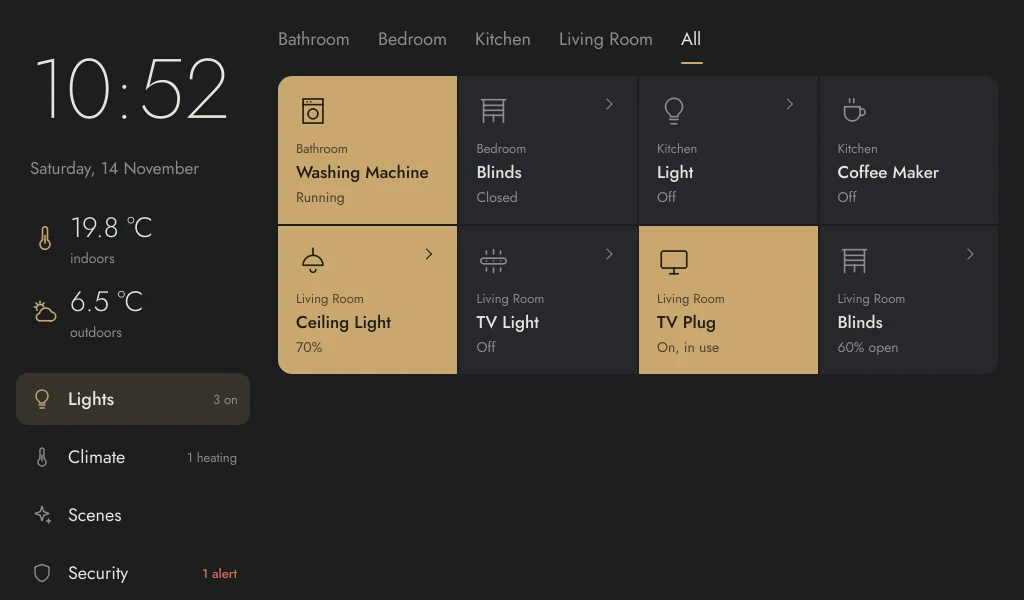
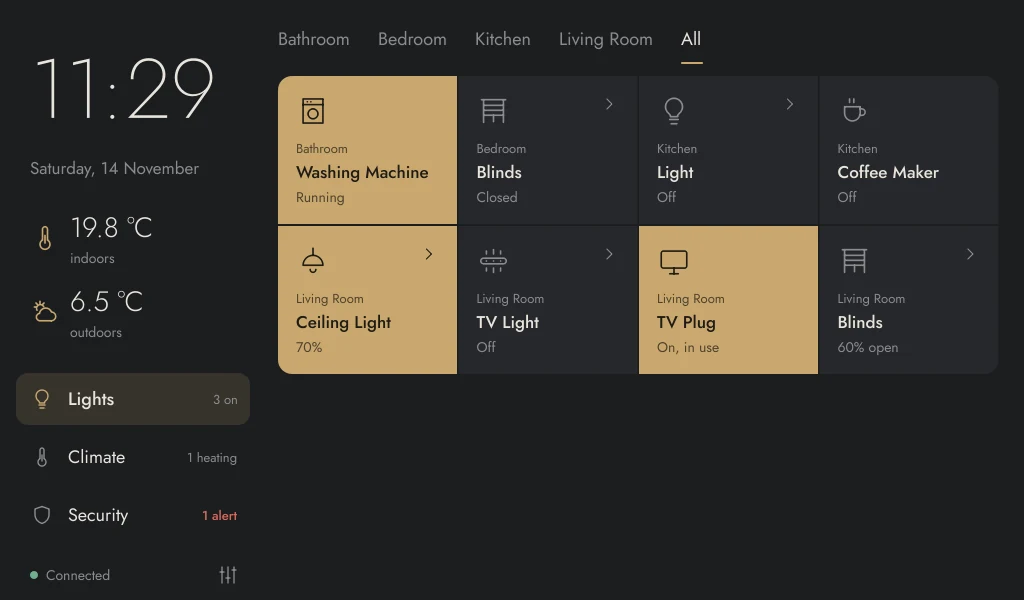
Project page: drop the scenes tab, add Portuguese
Claude-Session: https://claude.ai/code/session_01WHPo8jtQJGMwjgBVHobh9P

diff --git a/site/index.html b/site/index.html
@@ -4,9 +4,9 @@
 <meta charset="utf-8">
 <meta name="viewport" content="width=device-width, initial-scale=1">
 <title>Homebridge Panel – a wall touch panel for your Homebridge home</title>
-<meta name="description" content="A calm, fast touch panel for the Raspberry Pi. Control lights, heating, blinds, scenes and sensors from Homebridge – locally, in five languages, on any screen size.">
+<meta name="description" content="A calm, fast touch panel for the Raspberry Pi. Control lights, heating, blinds and sensors from Homebridge – locally, in six languages, on any screen size.">
 <meta property="og:title" content="Homebridge Panel">
-<meta property="og:description" content="A wall touch panel for the Raspberry Pi that controls your Homebridge accessories – lights, heating, blinds, scenes and security.">
+<meta property="og:description" content="A wall touch panel for the Raspberry Pi that controls your Homebridge accessories – lights, heating, blinds, sensors and security.">
 <meta property="og:type" content="website">
 <meta property="og:image" content="https://marcjohnce.github.io/homebridge-panel/assets/og-image.png">
 <meta name="twitter:card" content="summary_large_image">
@@ -264,7 +264,7 @@ footer a{color:var(--ink)}
   <div class="wrap">
     <div class="hero-copy">
       <h1 data-i18n="hero.title">Your Homebridge, on the wall.</h1>
-      <p class="lede" data-i18n="hero.lede">A calm touch panel for the Raspberry Pi. Lights, heating, blinds, scenes and alarms – one tap away, right where you need them.</p>
+      <p class="lede" data-i18n="hero.lede">A calm touch panel for the Raspberry Pi. Lights, heating, blinds, sensors and alarms – one tap away, right where you need them.</p>
       <div class="cta-row">
         <a class="btn btn-gold" href="#install" data-i18n="hero.cta">Install on your Pi</a>
         <a class="btn btn-ghost" href="https://github.com/marcjohnce/homebridge-panel" data-i18n="hero.cta2">View the source</a>
@@ -273,7 +273,7 @@ footer a{color:var(--ink)}
         <li data-i18n="hero.f1">Runs locally, no cloud</li>
         <li data-i18n="hero.f4">Open source</li>
         <li data-i18n="hero.f2">Raspberry Pi 4 and 5</li>
-        <li data-i18n="hero.f3">Five languages</li>
+        <li data-i18n="hero.f3">Six languages</li>
       </ul>
     </div>
     <div class="hero-stage">
@@ -285,7 +285,6 @@ footer a{color:var(--ink)}
       <div class="tabs" role="tablist" aria-label="Panel menu">
         <button role="tab" aria-selected="true" data-tab="light"><svg viewBox="0 0 24 24" fill="none" stroke="currentColor" stroke-width="1.4" stroke-linecap="round"><path d="M9 18h6M10 21h4M12 3a6 6 0 00-3.5 10.9c.6.5 1 1.2 1 2.1h5c0-.9.4-1.6 1-2.1A6 6 0 0012 3z"/></svg><span data-i18n="tab.light">Lights</span></button>
         <button role="tab" aria-selected="false" data-tab="climate"><svg viewBox="0 0 24 24" fill="none" stroke="currentColor" stroke-width="1.4" stroke-linecap="round"><path d="M10 14.5V5a2 2 0 014 0v9.5a4 4 0 11-4 0z"/></svg><span data-i18n="tab.climate">Climate</span></button>
-        <button role="tab" aria-selected="false" data-tab="scenes"><svg viewBox="0 0 24 24" fill="none" stroke="currentColor" stroke-width="1.4" stroke-linejoin="round"><path d="M12 3l1.8 5.2L19 10l-5.2 1.8L12 17l-1.8-5.2L5 10l5.2-1.8z"/><path d="M18.5 16l.7 2 2 .7-2 .7-.7 2-.7-2-2-.7 2-.7z"/></svg><span data-i18n="tab.scenes">Scenes</span></button>
         <button role="tab" aria-selected="false" data-tab="security"><svg viewBox="0 0 24 24" fill="none" stroke="currentColor" stroke-width="1.4" stroke-linejoin="round"><path d="M12 3l7 3v5c0 4.5-3 8.3-7 10-4-1.7-7-5.5-7-10V6z"/></svg><span data-i18n="tab.security">Security</span></button>
       </div>
       <p class="tab-note" id="tabNote" aria-live="polite" data-i18n="note.light">Every light, plug and blind at a glance. Tap a tile to switch it, tap the arrow for brightness and colour.</p>
@@ -371,13 +370,14 @@ footer a{color:var(--ink)}
   <div class="wrap langs">
     <div>
       <h2 data-i18n="lang.title">Speaks your language.</h2>
-      <p class="lede" data-i18n="lang.lede">English, German, French, Italian and Spanish – switch in the settings and the whole panel follows, dates included.</p>
+      <p class="lede" data-i18n="lang.lede">English, German, French, Italian, Spanish and Portuguese – switch in the settings and the whole panel follows, dates included.</p>
       <ul class="lang-words" role="group" aria-label="Preview language">
         <li><button type="button" data-shot="dark-home-light" aria-pressed="true"><span class="w">Lights</span><span class="n">English</span></button></li>
         <li><button type="button" data-shot="dark-de-home-light" aria-pressed="false"><span class="w">Licht</span><span class="n">Deutsch</span></button></li>
         <li><button type="button" data-shot="dark-fr-home-light" aria-pressed="false"><span class="w">Lumières</span><span class="n">Français</span></button></li>
         <li><button type="button" data-shot="dark-it-home-light" aria-pressed="false"><span class="w">Luci</span><span class="n">Italiano</span></button></li>
         <li><button type="button" data-shot="dark-es-home-light" aria-pressed="false"><span class="w">Luces</span><span class="n">Español</span></button></li>
+        <li><button type="button" data-shot="dark-pt-home-light" aria-pressed="false"><span class="w">Luzes</span><span class="n">Português</span></button></li>
       </ul>
     </div>
     <div class="device edge"><div class="screen"><img id="langImg" src="assets/screens/dark-home-light.webp" width="1280" height="800" loading="lazy" alt="Home screen in the selected language"></div></div>
@@ -411,7 +411,7 @@ footer a{color:var(--ink)}
       <li><b data-i18n="f.1">0</b><span data-i18n="f.1s">cloud services or accounts needed</span></li>
       <li><b data-i18n="f.2">≤ 5 s</b><span data-i18n="f.2s">until changes from the Home app appear on the panel</span></li>
       <li><b>6</b><span data-i18n="f.3s">screen layouts, landscape, square and portrait</span></li>
-      <li><b>5</b><span data-i18n="f.4s">languages, switchable without a restart</span></li>
+      <li><b>6</b><span data-i18n="f.4s">languages, switchable without a restart</span></li>
     </ul>
   </div>
 </section>
@@ -487,13 +487,12 @@ cd ~/homebridge-panel
     "skip":"Zum Inhalt springen",
     "nav.controls":"Bedienung","nav.screens":"Displays","nav.how":"So funktioniert's","nav.install":"Installation","nav.faq":"FAQ",
     "hero.title":"Dein Homebridge. An der Wand.",
-    "hero.lede":"Ein ruhiges Touch-Panel für den Raspberry Pi. Licht, Heizung, Rollos, Szenen und Alarme – einen Fingertipp entfernt, genau dort, wo du sie brauchst.",
+    "hero.lede":"Ein ruhiges Touch-Panel für den Raspberry Pi. Licht, Heizung, Rollos, Sensoren und Alarme – einen Fingertipp entfernt, genau dort, wo du sie brauchst.",
     "hero.cta":"Auf dem Pi installieren","hero.cta2":"Quellcode ansehen",
-    "hero.f1":"Läuft lokal, ohne Cloud","hero.f2":"Raspberry Pi 4 und 5","hero.f3":"Fünf Sprachen","hero.f4":"Open Source",
-    "tab.light":"Licht","tab.climate":"Klima","tab.scenes":"Szenen","tab.security":"Sicherheit",
+    "hero.f1":"Läuft lokal, ohne Cloud","hero.f2":"Raspberry Pi 4 und 5","hero.f3":"Sechs Sprachen","hero.f4":"Open Source",
+    "tab.light":"Licht","tab.climate":"Klima","tab.security":"Sicherheit",
     "note.light":"Alle Lampen, Steckdosen und Rollos auf einen Blick. Kachel antippen zum Schalten, Pfeil für Helligkeit und Farbe.",
     "note.climate":"Heizkörper, Thermostate, Lüfter und Luftqualität. Was gerade heizt, siehst du sofort.",
-    "note.scenes":"„Alles aus“, „Komfort“, „Filmabend“ – Szenen pro Raum, mit einem Tipp ausgeführt.",
     "note.security":"Fenster, Türen, Wasser- und Glasbruchmelder. Offene Fenster und Alarme stehen immer oben.",
     "controls.title":"Für den Finger gemacht, nicht für die Maus.",
     "controls.lede":"Große Flächen, klare Zustände, keine verschachtelten Menüs. Jedes Gerät bekommt eine Bedienung, die sich anfühlt wie das Original.",
@@ -512,7 +511,7 @@ cd ~/homebridge-panel
     "sizes.7":"7″-HDMI-Displays","sizes.10":"10,1″-Panels – empfohlen","sizes.sq":"Quadratisch – empfohlen","sizes.p":"Hochformat",
     "sizes.note":"Im Pixelmaßstab dargestellt. 1280 × 720 (Touch Display 2) funktioniert ebenfalls.",
     "lang.title":"Spricht deine Sprache.",
-    "lang.lede":"Deutsch, Englisch, Französisch, Italienisch und Spanisch – in den Einstellungen umschalten, und das ganze Panel folgt, Datum inklusive.",
+    "lang.lede":"Deutsch, Englisch, Französisch, Italienisch, Spanisch und Portugiesisch – in den Einstellungen umschalten, und das ganze Panel folgt, Datum inklusive.",
     "how.title":"Spricht direkt mit Homebridge.",
     "how.lede":"Das Panel nutzt das HomeKit Accessory Protocol und verbindet sich über das Heimnetz mit deinem Homebridge. Kein Konto, keine Cloud, kein zusätzlicher Server.",
     "how.n1":"Deine Geräte","how.n1.p":"Lampen, Steckdosen, Thermostate, Rollos und Sensoren – jede Marke, für die es ein Homebridge-Plugin gibt.",
@@ -538,7 +537,6 @@ cd ~/homebridge-panel
   var EN={"copied":"Copied",
     "note.light":"Every light, plug and blind at a glance. Tap a tile to switch it, tap the arrow for brightness and colour.",
     "note.climate":"Radiators, thermostats, fans and air quality. You see at once what is heating.",
-    "note.scenes":"“All off”, “Comfort”, “Movie night” – scenes per room, run with one tap.",
     "note.security":"Windows, doors, leak and glass break sensors. Open windows and alarms always come first."};
   var nodes=document.querySelectorAll("[data-i18n]");
   nodes.forEach(function(n){EN[n.dataset.i18n]=EN[n.dataset.i18n]||n.innerHTML;});
@@ -563,7 +561,7 @@ cd ~/homebridge-panel
     next.decode?next.decode().then(go,go):(next.onload=go);
     function go(){img.style.opacity=0;setTimeout(function(){img.src=src;if(alt)img.alt=alt;img.style.opacity=1;},180);}
   }
-  var ALTS={light:"Home screen with the lights of all rooms",climate:"Climate view with heating, weather station, fan and air quality",scenes:"Scenes: All off, Comfort, Eco and Movie night",security:"Security view with an open bedroom window shown first"};
+  var ALTS={light:"Home screen with the lights of all rooms",climate:"Climate view with heating, weather station, fan and air quality",security:"Security view with an open bedroom window shown first"};
   var tabs=document.querySelectorAll("[role=tab]");
   tabs.forEach(function(b,i){
     b.addEventListener("click",function(){
@@ -578,7 +576,7 @@ cd ~/homebridge-panel
       var n=tabs[(i+d+tabs.length)%tabs.length];n.focus();n.click();
     });
   });
-  ["light","climate","scenes","security"].forEach(function(c){var i=new Image();i.src="assets/screens/dark-home-"+c+".webp";});
+  ["light","climate","security"].forEach(function(c){var i=new Image();i.src="assets/screens/dark-home-"+c+".webp";});
 
   /* language preview */
   var lb=document.querySelectorAll(".lang-words button");

diff --git a/tools/site_screenshots.py b/tools/site_screenshots.py
@@ -20,7 +20,7 @@ from PIL import Image  # noqa: E402
 from PySide6.QtGui import QGuiApplication  # noqa: E402
 
 OUT = ROOT / "site" / "assets" / "screens"
-CATEGORIES = ("light", "climate", "scenes", "security")
+CATEGORIES = ("light", "climate", "security")
 
 
 def save(p: ds.Panel, name: str) -> None:
@@ -52,7 +52,7 @@ def main() -> int:
     for size, tag in (((720, 720), "720x720"), ((800, 480), "800x480"),
                       ((720, 1280), "720x1280"), ((1024, 600), "1024x600")):
         home(size, "dark", f"dark-{tag}", cats=("light",)).close()
-    for lang in ("de", "fr", "it", "es"):
+    for lang in ("de", "fr", "it", "es", "pt"):
         home((1280, 800), "dark", f"dark-{lang}", lang=lang, cats=("light",)).close()
     print(f"saved to {OUT}")
     return 0
